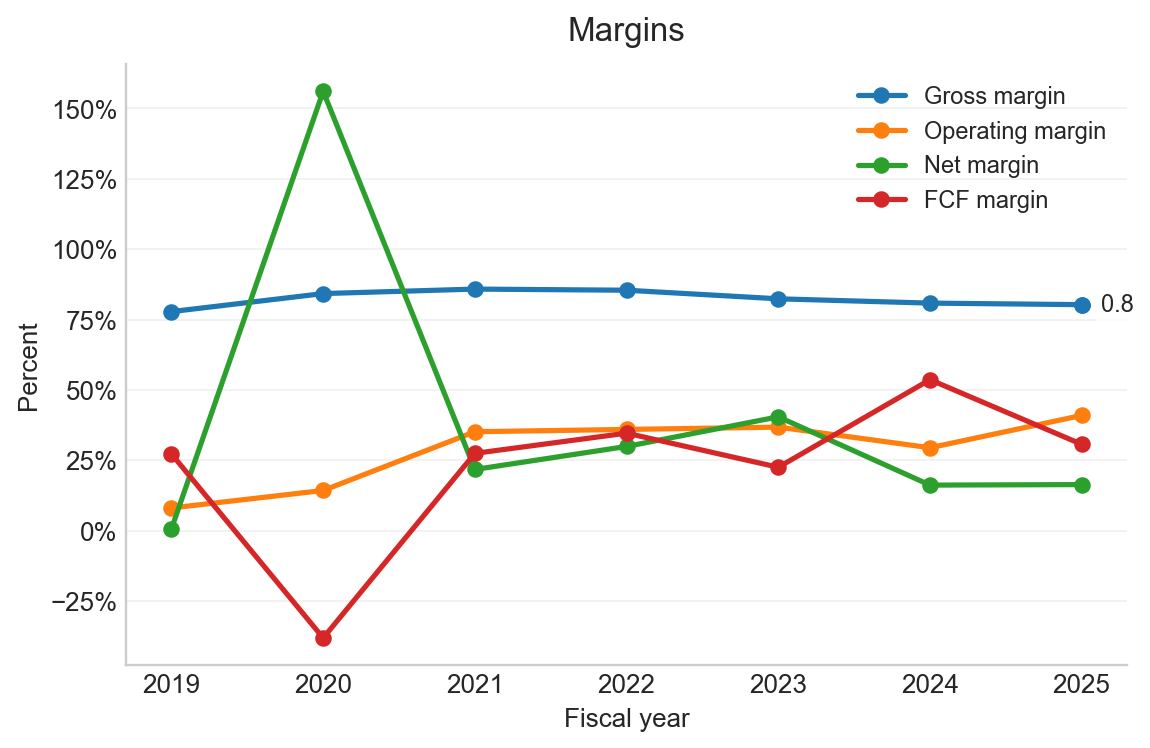
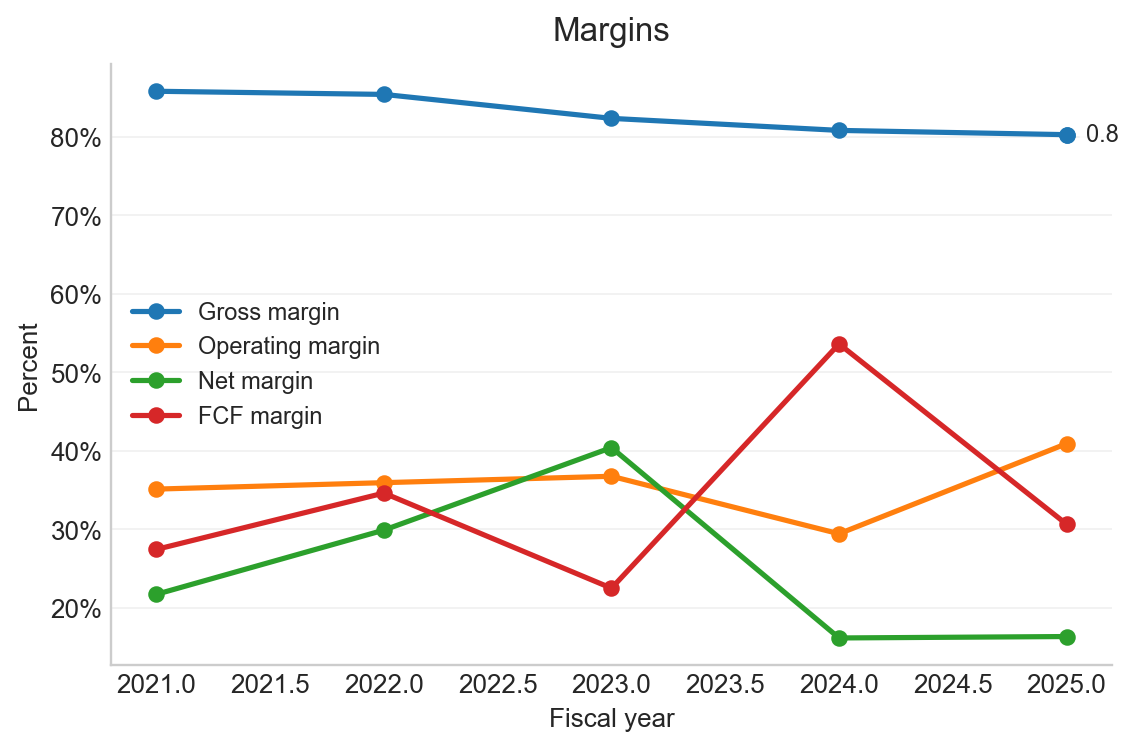
report

diff --git a/output_reports/GEN.md b/output_reports/GEN.md
@@ -1,8 +1,8 @@
 # Gen Digital Inc. - GEN Automated Financial Analysis Report
 
 - CIK: `0000849399`
-- Generated: 2026-02-22 21:57:17
-- Coverage: last 10 fiscal years
+- Generated: 2026-02-22 21:58:29
+- Coverage: last 5 fiscal years
 
 ## Highlights
 - Latest fiscal year: **FY2025** ended 2025-03-28.
@@ -24,18 +24,13 @@
 
 ## Annual Financials Table
 USD in billions for level metrics
-|   fy | fiscal_year_end   | revenue   |   gross_profit |   operating_income |   net_income |   cfo |   capex |   fcf | revenue_yoy   | gross_margin   | operating_margin   | net_margin   | fcf_margin   |   cash |   equity |
-|-----:|:------------------|:----------|---------------:|-------------------:|-------------:|------:|--------:|------:|:--------------|:---------------|:-------------------|:-------------|:-------------|-------:|---------:|
-| 2025 | 2025-03-28        | 3.9       |            3.2 |                1.6 |          0.6 |   1.2 |     0   |   1.2 | 3.2%          | 80.3%          | 40.9%              | 16.3%        | 30.6%        |    1   |      2.3 |
-| 2024 | 2024-03-29        | 3.8       |            3.1 |                1.1 |          0.6 |   2.1 |     0   |   2   | 14.2%         | 80.8%          | 29.4%              | 16.2%        | 53.6%        |    0.8 |      2.2 |
-| 2023 | 2023-03-31        | 3.3       |            2.7 |                1.2 |          1.3 |   0.8 |     0   |   0.8 | 19.4%         | 82.4%          | 36.8%              | 40.4%        | 22.5%        |    0.8 |      2.2 |
-| 2022 | 2022-04-01        | 2.8       |            2.4 |                1   |          0.8 |   1   |     0   |   1   | 9.6%          | 85.4%          | 35.9%              | 29.9%        | 34.6%        |    1.9 |     -0.1 |
-| 2021 | 2021-04-02        | 2.6       |            2.2 |                0.9 |          0.6 |   0.7 |     0   |   0.7 | 2.4%          | 85.8%          | 35.1%              | 21.7%        | 27.4%        |    0.9 |     -0.5 |
-| 2020 | 2020-04-03        | 2.5       |            2.1 |                0.4 |          3.9 |  -0.9 |     0.1 |  -0.9 | -47.4%        | 84.2%          | 14.3%              | 156.1%       | -38.2%       |    2.2 |      0   |
-| 2019 | 2019-03-29        | 4.7       |            3.7 |                0.4 |          0   |   1.5 |     0.2 |   1.3 | NA            | 77.8%          | 8.0%               | 0.7%         | 27.2%        |    1.8 |      5.7 |
-| 2018 | 2018-03-30        | NA        |            3.8 |                0   |          1.1 |   0.9 |     0.1 |   0.8 | NA            | NA             | NA                 | NA           | NA           |    1.8 |      5   |
-| 2017 | 2017-03-31        | NA        |            3.2 |               -0.1 |         -0.1 |  -0.2 |     0.1 |  -0.3 | NA            | NA             | NA                 | NA           | NA           |    4.2 |      3.5 |
-| 2016 | 2016-04-01        | NA        |            3   |                0.5 |          2.5 |   0.8 |     0.3 |   0.5 | NA            | NA             | NA                 | NA           | NA           |    6   |      3.7 |
+|   fy | fiscal_year_end   |   revenue |   gross_profit |   operating_income |   net_income |   cfo |   capex |   fcf | revenue_yoy   | gross_margin   | operating_margin   | net_margin   | fcf_margin   |   cash |   equity |
+|-----:|:------------------|----------:|---------------:|-------------------:|-------------:|------:|--------:|------:|:--------------|:---------------|:-------------------|:-------------|:-------------|-------:|---------:|
+| 2025 | 2025-03-28        |       3.9 |            3.2 |                1.6 |          0.6 |   1.2 |       0 |   1.2 | 3.2%          | 80.3%          | 40.9%              | 16.3%        | 30.6%        |    1   |      2.3 |
+| 2024 | 2024-03-29        |       3.8 |            3.1 |                1.1 |          0.6 |   2.1 |       0 |   2   | 14.2%         | 80.8%          | 29.4%              | 16.2%        | 53.6%        |    0.8 |      2.2 |
+| 2023 | 2023-03-31        |       3.3 |            2.7 |                1.2 |          1.3 |   0.8 |       0 |   0.8 | 19.4%         | 82.4%          | 36.8%              | 40.4%        | 22.5%        |    0.8 |      2.2 |
+| 2022 | 2022-04-01        |       2.8 |            2.4 |                1   |          0.8 |   1   |       0 |   1   | 9.6%          | 85.4%          | 35.9%              | 29.9%        | 34.6%        |    1.9 |     -0.1 |
+| 2021 | 2021-04-02        |       2.6 |            2.2 |                0.9 |          0.6 |   0.7 |       0 |   0.7 | NA            | 85.8%          | 35.1%              | 21.7%        | 27.4%        |    0.9 |     -0.5 |
 
 ## XBRL Concept Map
 

diff --git a/output_reports/index.md b/output_reports/index.md
@@ -1,7 +1,7 @@
 # Automated Financial Analysis Reports
 
-- Generated: 2026-02-22 21:57:17
-- Coverage: last 10 fiscal years
+- Generated: 2026-02-22 21:58:29
+- Coverage: last 5 fiscal years
 
 ## Reports
 
